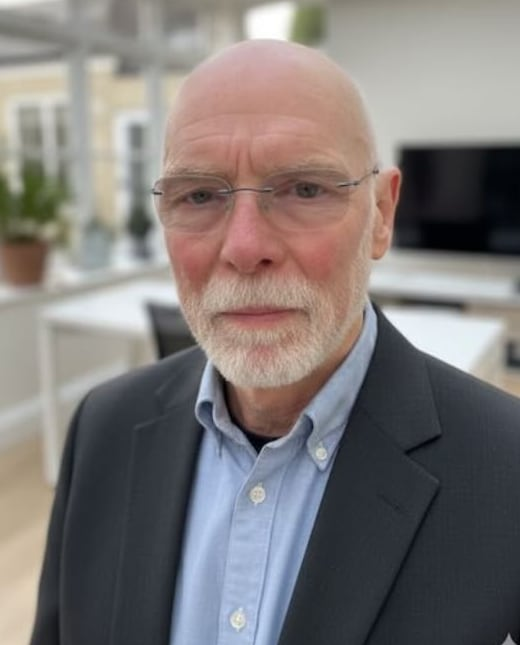
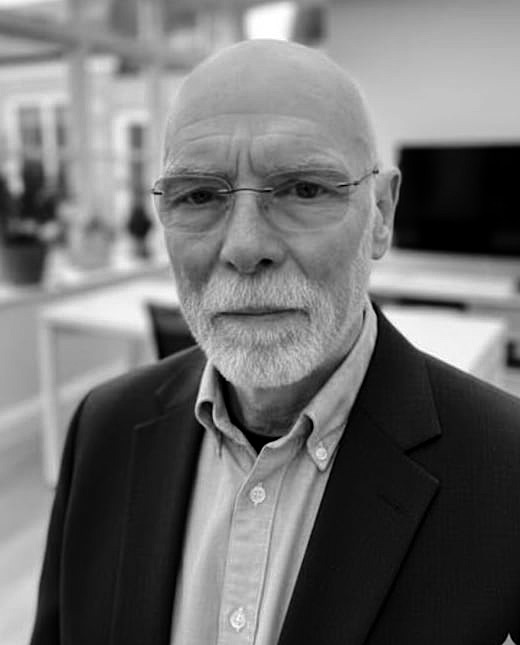
Folk Fest & Fest Theatre

diff --git a/_places/Festival Theatre, Cambridge.md b/_places/Festival Theatre, Cambridge.md
@@ -1,0 +1,7 @@
+---
+layout: place
+title: Festival Theatre, Cambridge
+place_id: festival-theatre-cambridge
+---
+Steve joins Gary 
+Former Theatre Royal. 1816. Built at Barnwell because of prohibition in the University town. The interior is a virtually complete example of a Georgian theatre with a three-tiered horsehoe auditorium with the galleries supported on cast iron columns. There is no sign of the original decoration to the fronts of the galleries, but a painting of the Royal Arms remains above the proscenium. The theatre was closed in the C19 and used as a Nonconformist chapel, but it was reopened and again closed in the years between the two wars. Altered c1926 for Terence Gray by Harold Ridge and Norman Marshall, with the removal of the proscenium arch and the introduction of a cyclorama and a revolving stage. This was one of the earliest uses of this type of modern stage technology pioneered by Gordon Craig in the 1920s

diff --git a/notes/event-horizon/10th Cambridge Folk Festival.md b/notes/event-horizon/10th Cambridge Folk Festival.md
@@ -1,0 +1,9 @@
+---
+layout: companion-entry
+title: 10th Cambridge Folk Festival
+book_id: event-horizon
+permalink: /notes/event-horizon/folk-festival/
+---
+![10th Cambridge Folk Festival](/assets/images/Cam-folk-fest-74.png)
+
+Ginny gets a pair of tickets to the Cambridge Folk Festival. She and Steve travel there in Jon's VW camper van. They meet up with Matt Parker, Gary Lewis's partner and Tom, the owner of the Solstice bookshop. Steve hears Jed Morgan play and Jed, with his eye on Ginny, hitches a lift back into Cambridge with them. Jed is a veteran guitarist, teacher and former session player. He is the author of the Jazz guitar tutorial that Steve buys in Miller's in Sussex Street. The group eats at Waffles in The Kite and then they all go back to Tom's flat over the Solstice bookshop.
